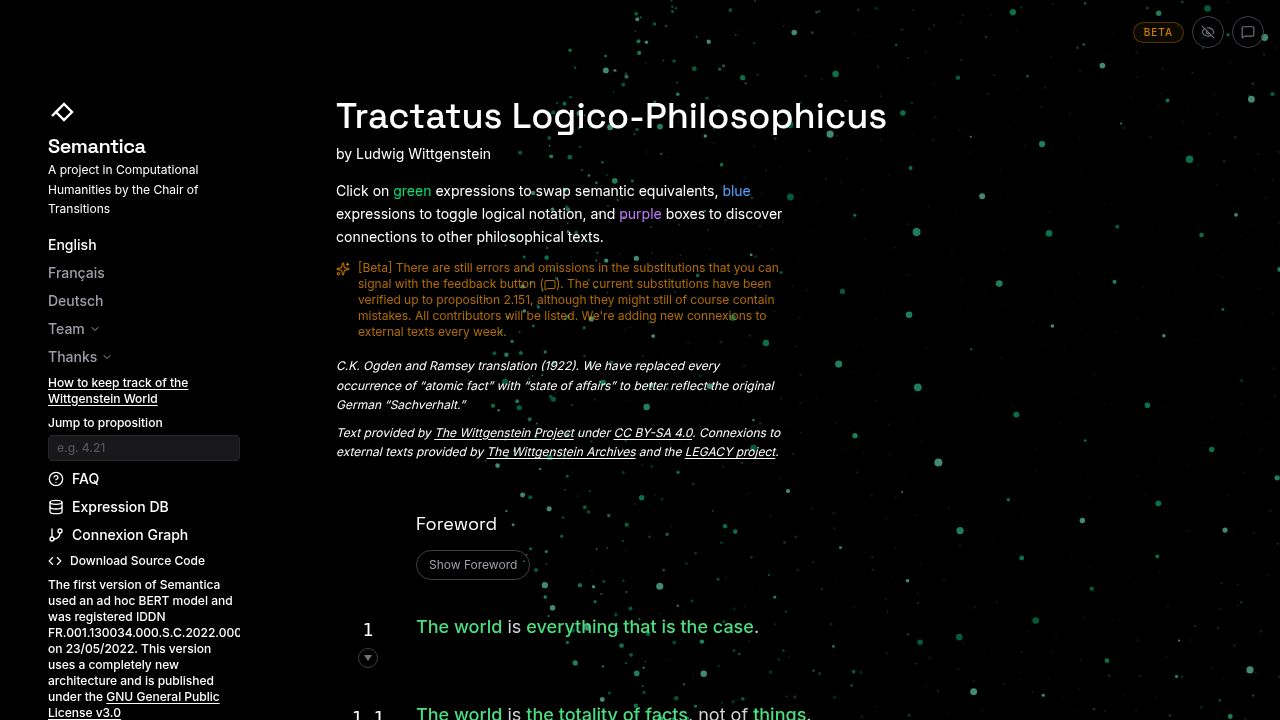
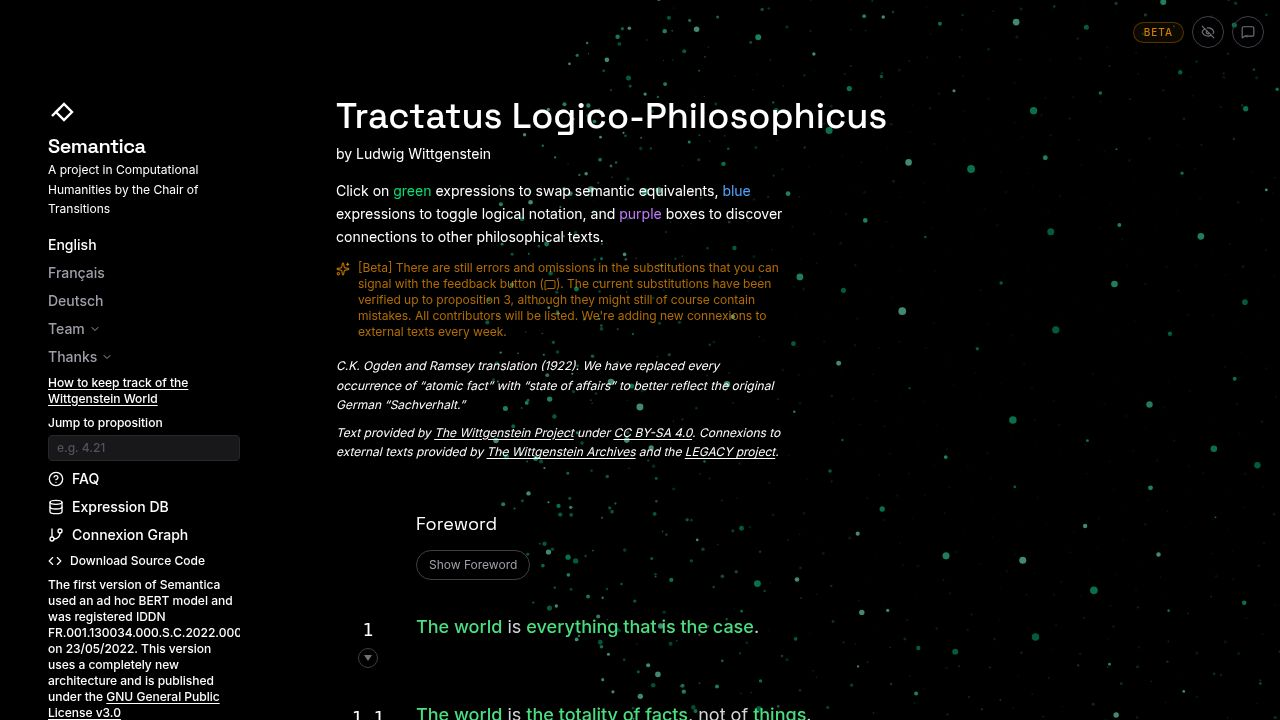
Add details about divine omnipotence to proposition 3.031 and the connexion graph
Update client/src/pages/Graph.tsx to include connexion graph entries for proposition 3.031, and update client/src/pages/Home.tsx to enable purple annotations for proposition 3.031.

Replit-Commit-Author: Agent
Replit-Commit-Session-Id: 3d3c5ee8-30ca-449f-a36a-2a26b9467d3a
Replit-Commit-Checkpoint-Type: full_checkpoint
Replit-Commit-Event-Id: 2e89971b-9aae-4dad-9f2e-b738b0e89592
Replit-Commit-Screenshot-Url: https://storage.googleapis.com/screenshot-production-us-central1/2c497065-9d4a-4f02-8f2e-021a778ebca1/3d3c5ee8-30ca-449f-a36a-2a26b9467d3a/2YGunhn
Replit-Helium-Checkpoint-Created: true

diff --git a/client/src/pages/Home.tsx b/client/src/pages/Home.tsx
@@ -856,7 +856,7 @@ export default function Home() {
                       </button>
                     )}
                   </div>
-                  <div className={`text-lg leading-relaxed transition-colors ${['6.36111', '6.45', '3.328', '5.47321', '4.0031', '4.1122', '5.452', '5.4541', '3.331', '4.014', '4.04'].includes(proposition.id) ? 'text-purple-200 border border-purple-500/40 bg-purple-500/10 rounded-xl p-4 cursor-pointer hover:bg-purple-500/15 hover:border-purple-500/50' : 'text-zinc-300 group-hover:text-white'}`} onClick={['6.36111', '6.45', '3.328', '5.47321', '4.0031', '4.1122', '5.452', '5.4541', '3.331', '4.014', '4.04'].includes(proposition.id) ? (e) => { if ((e.target as HTMLElement).closest('a, .annotation-content')) return; setOpenAnnotation(openAnnotation === proposition.id ? null : proposition.id); } : undefined} data-testid={['6.36111', '6.45', '3.328', '5.47321', '4.0031', '4.1122', '5.452', '5.4541', '3.331', '4.014', '4.04'].includes(proposition.id) ? `btn-annotation-${proposition.id}` : undefined}>
+                  <div className={`text-lg leading-relaxed transition-colors ${['6.36111', '6.45', '3.328', '5.47321', '4.0031', '4.1122', '5.452', '5.4541', '3.331', '4.014', '4.04', '3.031'].includes(proposition.id) ? 'text-purple-200 border border-purple-500/40 bg-purple-500/10 rounded-xl p-4 cursor-pointer hover:bg-purple-500/15 hover:border-purple-500/50' : 'text-zinc-300 group-hover:text-white'}`} onClick={['6.36111', '6.45', '3.328', '5.47321', '4.0031', '4.1122', '5.452', '5.4541', '3.331', '4.014', '4.04', '3.031'].includes(proposition.id) ? (e) => { if ((e.target as HTMLElement).closest('a, .annotation-content')) return; setOpenAnnotation(openAnnotation === proposition.id ? null : proposition.id); } : undefined} data-testid={['6.36111', '6.45', '3.328', '5.47321', '4.0031', '4.1122', '5.452', '5.4541', '3.331', '4.014', '4.04', '3.031'].includes(proposition.id) ? `btn-annotation-${proposition.id}` : undefined}>
                     <PropositionSegments
                       segments={proposition.segments}
                       propositionId={proposition.id}
@@ -1303,6 +1303,49 @@ export default function Home() {
                                     : language === 'de'
                                     ? <>Sie k{'\u00f6'}nnen diese Verbindung diskutieren und zu dieser kollektiven Arbeit auf der <a href="https://legacy-um6p.1337.ma/home" target="_blank" rel="noopener noreferrer" className="text-purple-400 underline underline-offset-2 hover:text-purple-300" data-testid="link-legacy-website-grimm">LEGACY-Website</a> beitragen.</>
                                     : <>Vous pouvez discuter de cette connexion et contribuer {'\u00e0'} ce travail collectif sur le <a href="https://legacy-um6p.1337.ma/home" target="_blank" rel="noopener noreferrer" className="text-purple-400 underline underline-offset-2 hover:text-purple-300" data-testid="link-legacy-website-grimm">site LEGACY</a>.</>
+                                  }
+                                </p>
+                              </div>
+                            </motion.div>
+                          )}
+                        </AnimatePresence>
+                      </div>
+                    )}
+
+                    {proposition.id === '3.031' && (
+                      <div className="mt-4">
+                        <AnimatePresence>
+                          {openAnnotation === proposition.id && (
+                            <motion.div
+                              initial={{ opacity: 0, height: 0 }}
+                              animate={{ opacity: 1, height: 'auto' }}
+                              exit={{ opacity: 0, height: 0 }}
+                              transition={{ duration: 0.3 }}
+                              className="overflow-hidden"
+                            >
+                              <div className="annotation-content mt-3 p-5 rounded-xl border border-purple-500/30 bg-purple-500/5 text-sm leading-relaxed" data-testid="annotation-3.031">
+                                <p className="text-purple-200 mb-3">
+                                  {language === 'en'
+                                    ? <>This passage does not refer to a specific author, but the two most famous defences of divine omnipotence constrained by logic in the philosophical tradition are <strong>Thomas Aquinas</strong> in <em>Summa Theologiae</em> (1266{'\u2013'}1272), Part I, q.25, a.3, <strong>Leibniz</strong> in <em>Theodicy</em>, Part I, {'\u00a7'}173 (1710), and <strong>Kant</strong> in the <em>Critique of Pure Reason</em> (1781), A592{'\u2009'}/{'\u2009'}B620.</>
+                                    : language === 'de'
+                                    ? <>Diese Passage bezieht sich nicht auf einen bestimmten Autor, aber die beiden ber{'\u00fc'}hmtesten Verteidigungen der g{'\u00f6'}ttlichen Allmacht, die durch die Logik eingeschr{'\u00e4'}nkt wird, in der philosophischen Tradition stammen von <strong>Thomas von Aquin</strong> in der <em>Summa Theologiae</em> (1266{'\u2013'}1272), Teil I, q.25, a.3, <strong>Leibniz</strong> in der <em>Theodizee</em>, Teil I, {'\u00a7'}173 (1710), und <strong>Kant</strong> in der <em>Kritik der reinen Vernunft</em> (1781), A592{'\u2009'}/{'\u2009'}B620.</>
+                                    : <>Ce passage ne fait pas r{'\u00e9'}f{'\u00e9'}rence {'\u00e0'} un auteur sp{'\u00e9'}cifique, mais les deux d{'\u00e9'}fenses les plus c{'\u00e9'}l{'\u00e8'}bres de l{'\u2019'}omnipotence divine contrainte par la logique dans la tradition philosophique sont celles de <strong>Thomas d{'\u2019'}Aquin</strong> dans la <em>Somme th{'\u00e9'}ologique</em> (1266{'\u2013'}1272), I, q.25, a.3, de <strong>Leibniz</strong> dans la <em>Th{'\u00e9'}odic{'\u00e9'}e</em>, Partie I, {'\u00a7'}173 (1710), et de <strong>Kant</strong> dans la <em>Critique de la raison pure</em> (1781), A592{'\u2009'}/{'\u2009'}B620.</>
+                                  }
+                                </p>
+                                <p className="text-purple-300/70 text-xs mb-3">
+                                  {language === 'en'
+                                    ? 'Contributor: Laura Duparc, Mohammed VI Polytechnic University, based on data collected by the Wittgenstein Archives.'
+                                    : language === 'de'
+                                    ? 'Beitragende: Laura Duparc, Mohammed VI Polytechnic University, basierend auf Daten der Wittgenstein-Archive.'
+                                    : 'Contributrice\u00a0: Laura Duparc, Universit\u00e9 Mohammed VI Polytechnique, sur la base des donn\u00e9es collect\u00e9es par les Archives Wittgenstein.'
+                                  }
+                                </p>
+                                <p className="text-purple-300/70 text-xs">
+                                  {language === 'en'
+                                    ? 'Type: Neutral \u2014 this annotation identifies a relevant philosophical tradition without implying Wittgenstein\u2019s agreement or disagreement.'
+                                    : language === 'de'
+                                    ? 'Typ: Neutral \u2014 diese Anmerkung identifiziert eine relevante philosophische Tradition, ohne Wittgensteins Zustimmung oder Ablehnung zu implizieren.'
+                                    : 'Type\u00a0: Neutre \u2014 cette annotation identifie une tradition philosophique pertinente sans impliquer l\u2019accord ou le d\u00e9saccord de Wittgenstein.'
                                   }
                                 </p>
                               </div>

diff --git a/client/src/pages/Graph.tsx b/client/src/pages/Graph.tsx
@@ -64,6 +64,66 @@ const i18n: Record<Lang, {
 
 const connections: Connection[] = [
   {
+    propositionId: '3.031',
+    propositionText: {
+      en: 'It used to be said that God could create everything, except what was contrary to the laws of logic.',
+      fr: 'On a dit que Dieu pouvait tout cr\u00e9er, sauf seulement ce qui contredirait aux lois de la logique.',
+      de: 'Man sagte einmal, dass Gott alles schaffen k\u00f6nne, nur nichts, was den logischen Gesetzen zuwider w\u00e4re.',
+    },
+    source: {
+      id: 'aquinas-summa',
+      author: 'Thomas Aquinas',
+      title: {
+        en: 'Summa Theologiae',
+        fr: 'Somme th\u00e9ologique',
+        de: 'Summa Theologiae',
+      },
+      year: '1266\u20131272',
+      url: 'https://legacy-um6p.1337.ma/projects/library',
+    },
+    type: 'neutral',
+  },
+  {
+    propositionId: '3.031',
+    propositionText: {
+      en: 'It used to be said that God could create everything, except what was contrary to the laws of logic.',
+      fr: 'On a dit que Dieu pouvait tout cr\u00e9er, sauf seulement ce qui contredirait aux lois de la logique.',
+      de: 'Man sagte einmal, dass Gott alles schaffen k\u00f6nne, nur nichts, was den logischen Gesetzen zuwider w\u00e4re.',
+    },
+    source: {
+      id: 'leibniz-theodicy',
+      author: 'Gottfried Wilhelm Leibniz',
+      title: {
+        en: 'Theodicy',
+        fr: 'Th\u00e9odic\u00e9e',
+        de: 'Theodizee',
+      },
+      year: '1710',
+      url: 'https://legacy-um6p.1337.ma/projects/library',
+    },
+    type: 'neutral',
+  },
+  {
+    propositionId: '3.031',
+    propositionText: {
+      en: 'It used to be said that God could create everything, except what was contrary to the laws of logic.',
+      fr: 'On a dit que Dieu pouvait tout cr\u00e9er, sauf seulement ce qui contredirait aux lois de la logique.',
+      de: 'Man sagte einmal, dass Gott alles schaffen k\u00f6nne, nur nichts, was den logischen Gesetzen zuwider w\u00e4re.',
+    },
+    source: {
+      id: 'kant-cpr',
+      author: 'Immanuel Kant',
+      title: {
+        en: 'Critique of Pure Reason',
+        fr: 'Critique de la raison pure',
+        de: 'Kritik der reinen Vernunft',
+      },
+      year: '1781',
+      url: 'https://legacy-um6p.1337.ma/projects/library',
+    },
+    type: 'neutral',
+  },
+  {
     propositionId: '3.328',
     propositionText: {
       en: 'If a sign is not necessary then it is meaningless. That is the meaning of Occam\'s razor.',
